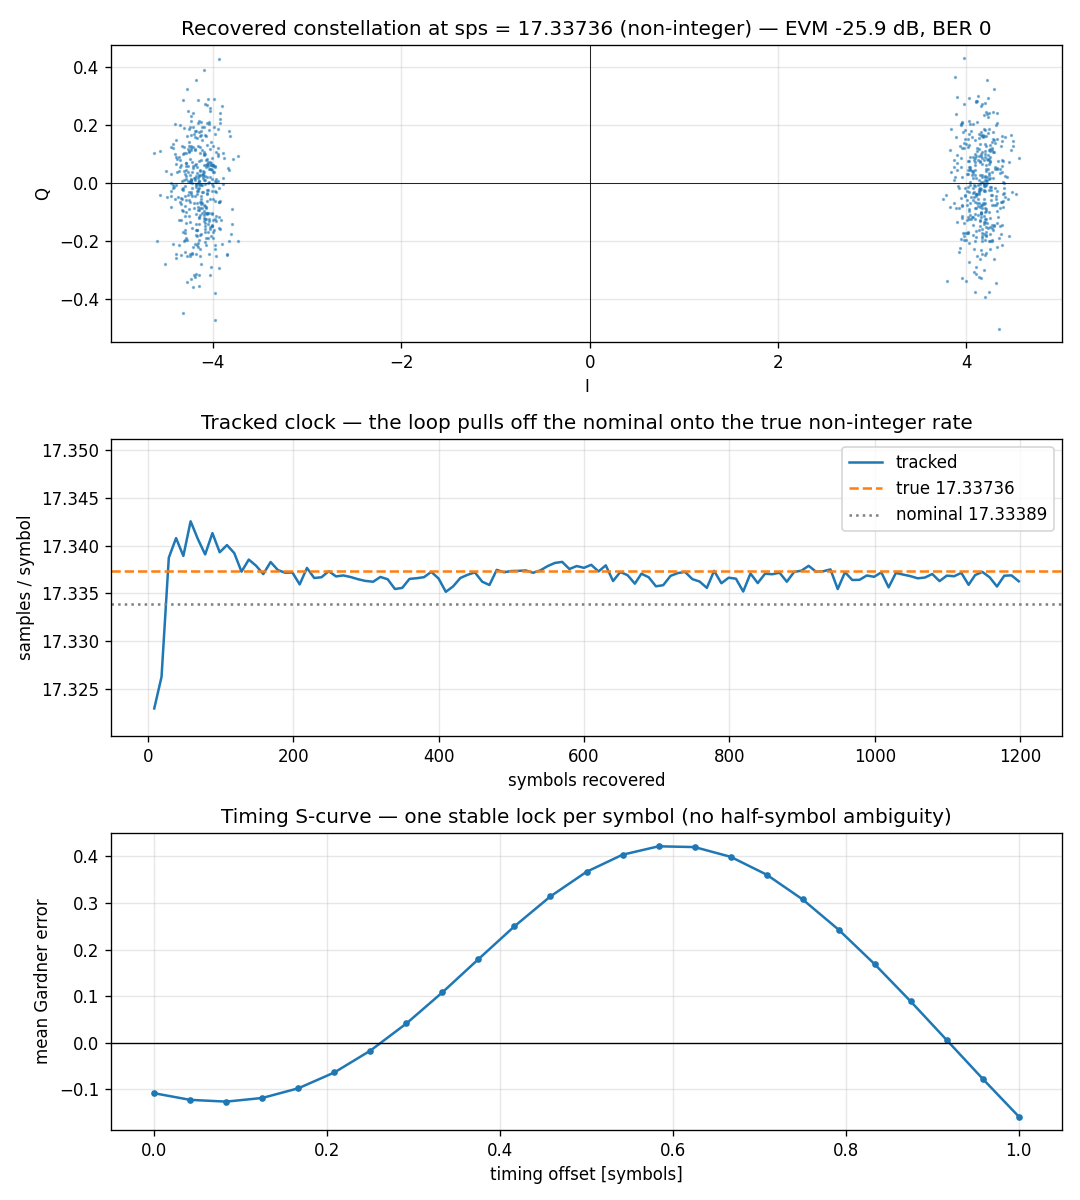
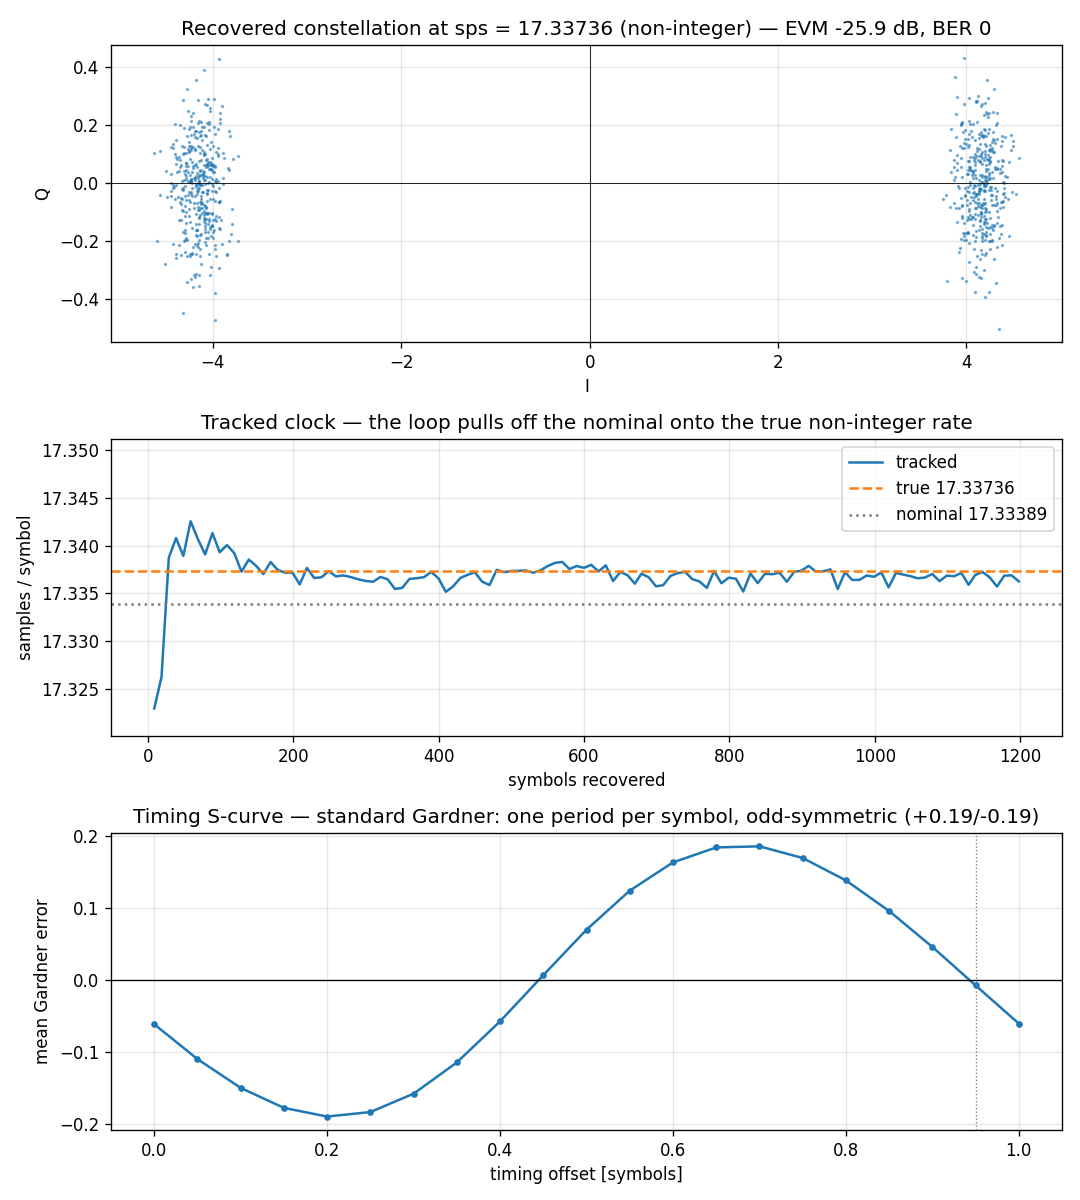
fix(examples): measure the RrcSync S-curve honestly
The gallery plot showed a lopsided S-curve with plateaus — zeros 0.65 of a
symbol apart instead of 0.5, lobes +0.42/-0.16, and the two endpoints (which
are the same timing) disagreeing. All three were the MEASUREMENT, not the
detector:

* the sweep shifted the input by int(o * sps) WHOLE samples, so at a
  non-integer sps consecutive sweep points collapsed onto the same timing —
  the plateaus;
* it averaged `timing_error` sampled at ~45 chunk boundaries, and the
  per-symbol Gardner error has a large data-pattern variance (only
  transitions carry information), so that few samples faked an asymmetry;
* it ran at 30 dB SNR, adding variance to a detector characterisation that
  wants none.

Now: fractional tau, noiseless, every symbol's error read back through the
object's own telemetry. The curve is the standard Gardner S-curve — one
period per symbol, odd-symmetric (+0.19/-0.19), zeros exactly half a symbol
apart, endpoints equal. Verified independently over two full symbols and at
both 1024 and 4096 arms (~59 vs ~236 arms ever indexed at rate = 1/sps):
periodicity holds to 0.003 and the curves are identical, so neither the arm
count nor the noise was ever implicated.

Claude-Session: https://claude.ai/code/session_01XeNc2g4pM4Sq2Dhds5zT6j

diff --git a/src/doppler/examples/rrcsync_demo.py b/src/doppler/examples/rrcsync_demo.py
@@ -77,6 +77,8 @@ def make_signal(sps, tau=0.37, seed=7, snr_db=SNR_DB):
         hi = min(n, int(np.floor((k + SPAN) * sps + tau)) + 1)
         if hi > lo:
             x[lo:hi] += ak * rrc_h(t[lo:hi] - k)
+    if snr_db is None:  # noiseless — for characterising the detector itself
+        return bits, x.astype(np.complex64)
     sigma = np.sqrt(np.mean(x**2) / (2 * 10 ** (snr_db / 10)))
     noise = sigma * (rng.standard_normal(n) + 1j * rng.standard_normal(n))
     return bits, (x + noise).astype(np.complex64)
@@ -124,28 +126,44 @@ def ber_wide(bits, y):
     return float(np.mean(s * d[:m] != tx[lag : lag + m]))
 
 
-def s_curve(points=25, chunks=60):
-    """Measure the timing S-curve from the object itself: hold the loop open
-    at a series of static timing offsets and average the TED error.
+def s_curve(points=21):
+    """Measure the timing S-curve from the object itself: freeze the loop at
+    a series of static timing offsets and average EVERY symbol's TED error,
+    read back through the object's own telemetry.
 
-    The offset is applied as a FRACTIONAL delay when generating the signal.
-    Slicing the sample array instead would quantise the sweep to whole
-    samples, and at a non-integer sps consecutive sweep points would then
-    collapse onto the same timing — plateaus in the curve that are an
-    artefact of the measurement, not of the detector.
+    Three things this measurement has to get right, each of which produced a
+    convincing-looking but wrong curve first:
+
+    * Sweep a **fractional** delay (`tau`, in samples). Slicing the sample
+      array instead quantises the sweep to whole samples, and at a
+      non-integer sps consecutive points then collapse onto the same
+      timing — plateaus that belong to the measurement, not the detector.
+    * Average **every** symbol's error, not `timing_error` sampled at a few
+      chunk boundaries: the per-symbol error has a large data-pattern
+      variance (Gardner only learns from transitions), so a few dozen
+      samples leave enough noise to fake an asymmetric curve.
+    * Measure it **noiseless**. Channel noise adds variance without changing
+      the shape, so it only obscures what is being characterised.
+
+    Done that way the curve is the standard Gardner S-curve: one period per
+    symbol, odd-symmetric, zeros exactly half a symbol apart.
     """
+    from doppler.telemetry import Telemetry
+
     offs = np.linspace(0.0, 1.0, points)
     err = []
     for o in offs:
         # tau is in samples; one symbol of timing == SPS samples
-        _, x = make_signal(SPS, tau=o * SPS, seed=11, snr_db=30.0)
+        _, x = make_signal(SPS, tau=o * SPS, seed=11, snr_db=None)
         # bn = 0 freezes the loop: the strobe stays where the offset put it
         probe = RrcSync(sps=SPS, beta=BETA, span=SPAN, num_phases=1024, bn=0.0)
-        e = []
-        for part in np.array_split(x, chunks):
-            probe.steps(part)
-            e.append(probe.timing_error)
-        err.append(float(np.mean(e[chunks // 4 :])))  # drop the fill transient
+        tlm = Telemetry(1 << 16)
+        probe.set_telemetry(tlm, "s")
+        e_id = tlm.probe_names()["s.e"]
+        probe.steps(x)
+        recs = tlm.read()
+        e = recs["value"][recs["probe"] == e_id]
+        err.append(float(np.mean(e[len(e) // 3 :])))  # drop the fill transient
     return offs, np.asarray(err)
 
 
@@ -194,10 +212,12 @@ def main(out_path="rrcsync_demo.png"):
     offs, err = s_curve()
     ax.plot(offs, err, "-o", ms=3)
     ax.axhline(0, lw=0.8, color="k")
+    zc = offs[np.argmin(np.abs(err))]
     ax.set_title(
-        "Timing S-curve — one stable lock per symbol "
-        "(no half-symbol ambiguity)"
+        f"Timing S-curve — standard Gardner: one period per symbol, "
+        f"odd-symmetric (+{err.max():.2f}/{err.min():.2f})"
     )
+    ax.axvline(zc, ls=":", color="C7", lw=0.8)
     ax.set_xlabel("timing offset [symbols]")
     ax.set_ylabel("mean Gardner error")
     ax.grid(alpha=0.3)

diff --git a/docs/gallery/rrcsync.md b/docs/gallery/rrcsync.md
@@ -25,8 +25,11 @@ loop is tracking an *asynchronous, non-integer* clock — `rate` reports the
 truth, which is what a caller disciplining a clock reads.
 
 **Bottom — Timing S-curve.** The Gardner error against timing offset, measured
-from the object itself: exactly **one stable lock per symbol** (the
-negative-going zero) and one unstable point half a symbol away.
+from the object itself (loop frozen, noiseless, every symbol's error averaged
+through its telemetry). It is the **standard Gardner S-curve** — one period per
+symbol, odd-symmetric, with the stable lock (negative-going zero) and the
+unstable point exactly half a symbol apart. Nothing about the fusion changes
+the detector; only the filter it reads from is different.
 
 ## How it works
 
